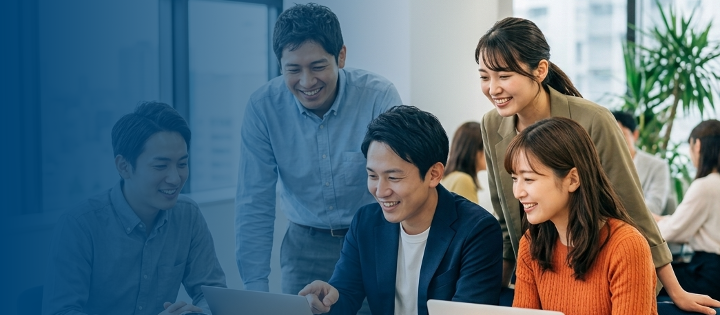
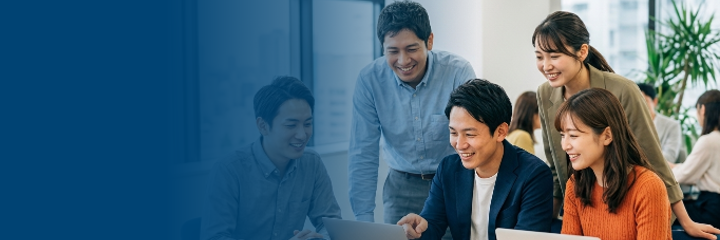
Update eyecatch1 and adjust hero/mobile font sizes
- Push updated images/eyecatch1.png
- PC hero h1: 32px → 36px, center → left-aligned
- SP hero h1: 18px → 20px (+1 size)
- SP all other text: -2px across the board

diff --git a/index.html b/index.html
@@ -68,15 +68,14 @@
     .hero-text {
       position: absolute;
       top: 50%;
-      left: 50%;
-      transform: translate(-50%, -50%);
-      text-align: center;
-      width: 80%;
+      left: 8%;
+      transform: translateY(-50%);
+      text-align: left;
       white-space: nowrap;
     }
 
     .hero-text h1 {
-      font-size: 32px;
+      font-size: 36px;
       font-weight: 900;
       color: #fff;
       line-height: 1.7;
@@ -526,9 +525,30 @@
       }
 
       /* ─── Hero ─── */
-      .hero-text h1 {
-        font-size: 18px;
+      .hero-text {
+        left: 50%;
+        transform: translate(-50%, -50%);
+        text-align: center;
       }
+
+      .hero-text h1 {
+        font-size: 20px; /* +1サイズ */
+      }
+
+      /* ─── その他テキスト（全体 -1サイズ = -2px）─── */
+      .mobile-nav a         { font-size: 18px; }
+      .section-title h2     { font-size: 23px; }
+      .service-card h3      { font-size: 17px; }
+      .service-card p       { font-size: 13px; }
+      .btn-more             { font-size: 13px; }
+      .vision-card h3       { font-size: 19px; }
+      .vision-card p        { font-size: 14px; }
+      .rep-bio .rep-label   { font-size: 17px; }
+      .rep-bio p            { font-size: 13px; }
+      .rep-profile .rep-name { font-size: 12px; }
+      .overview-card h3     { font-size: 17px; }
+      footer nav a          { font-size: 12px; }
+      .footer-copyright     { font-size: 11px; }
 
       /* ─── Section Title ─── */
       .section-title {
@@ -591,7 +611,7 @@
       }
 
       .overview-table td {
-        font-size: 14px;
+        font-size: 12px; /* -1サイズ */
         padding: 10px 6px;
       }
 